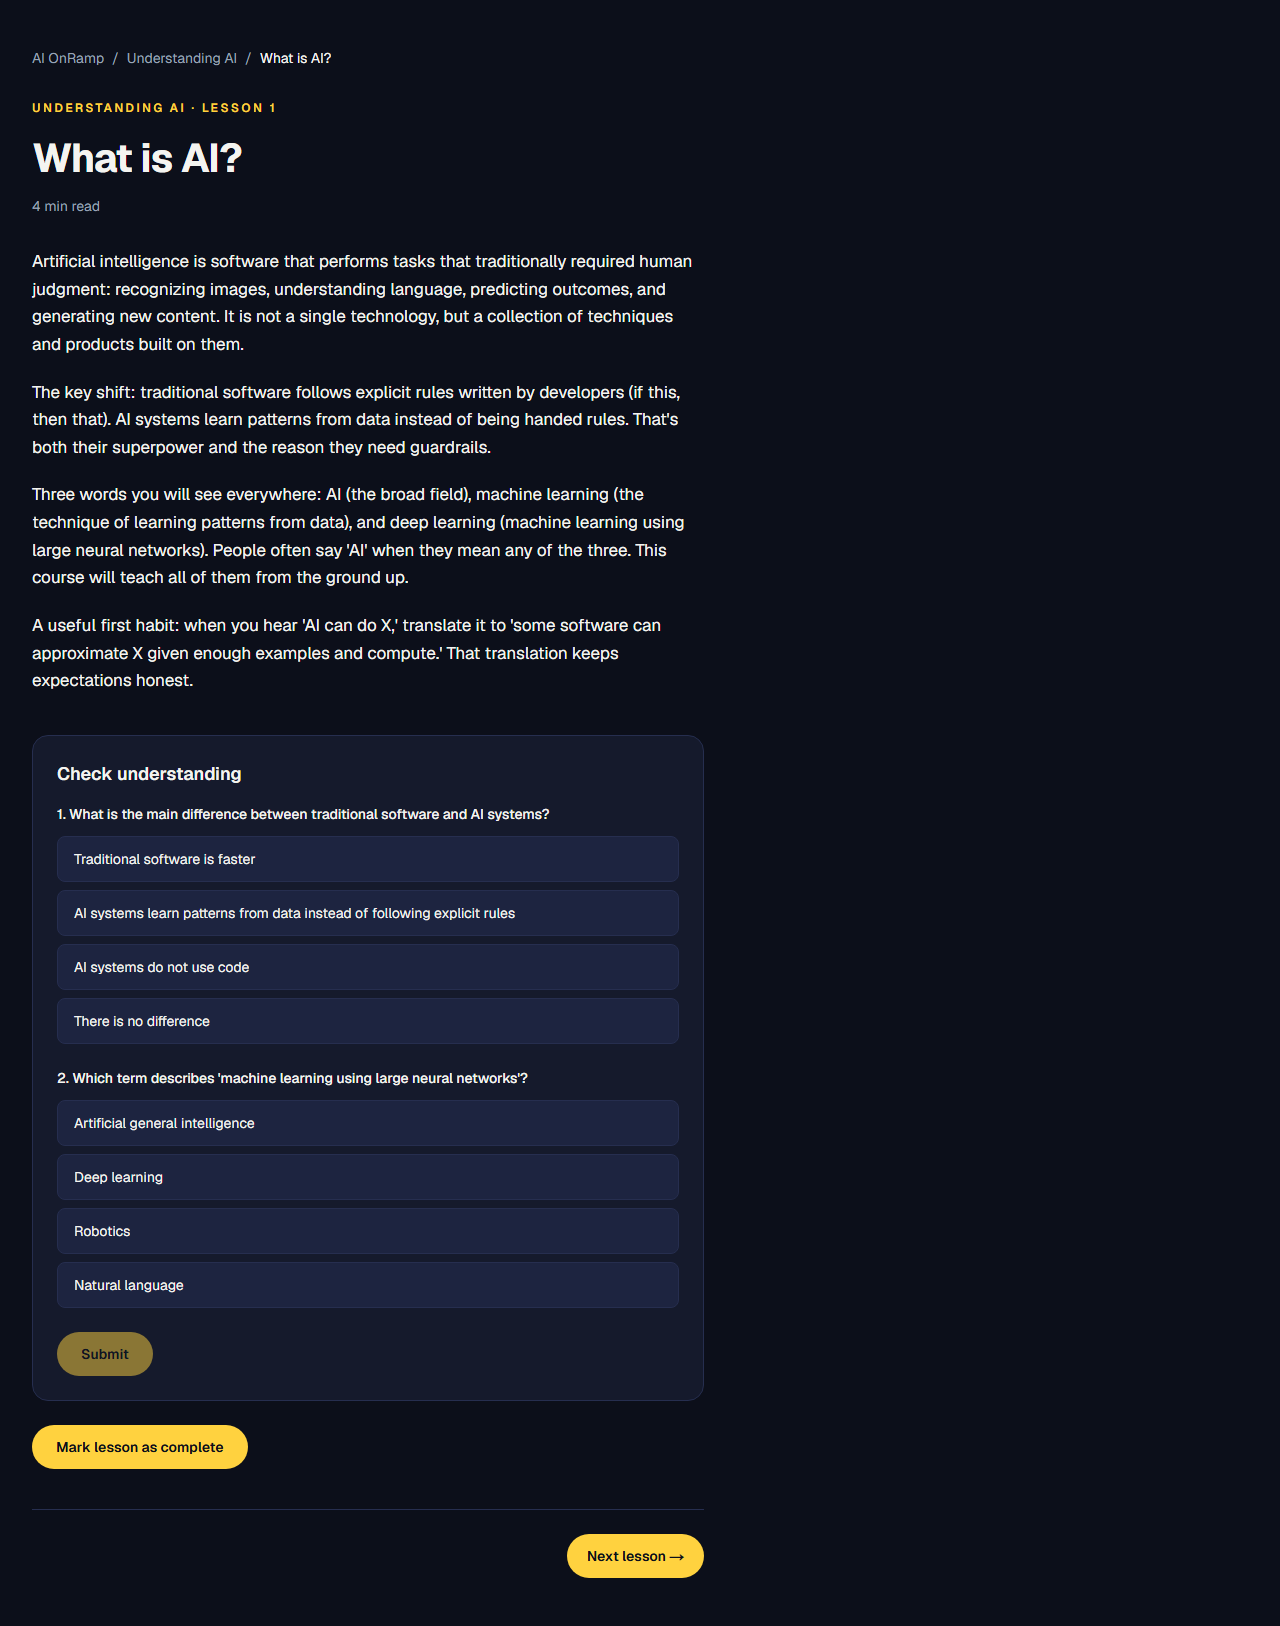
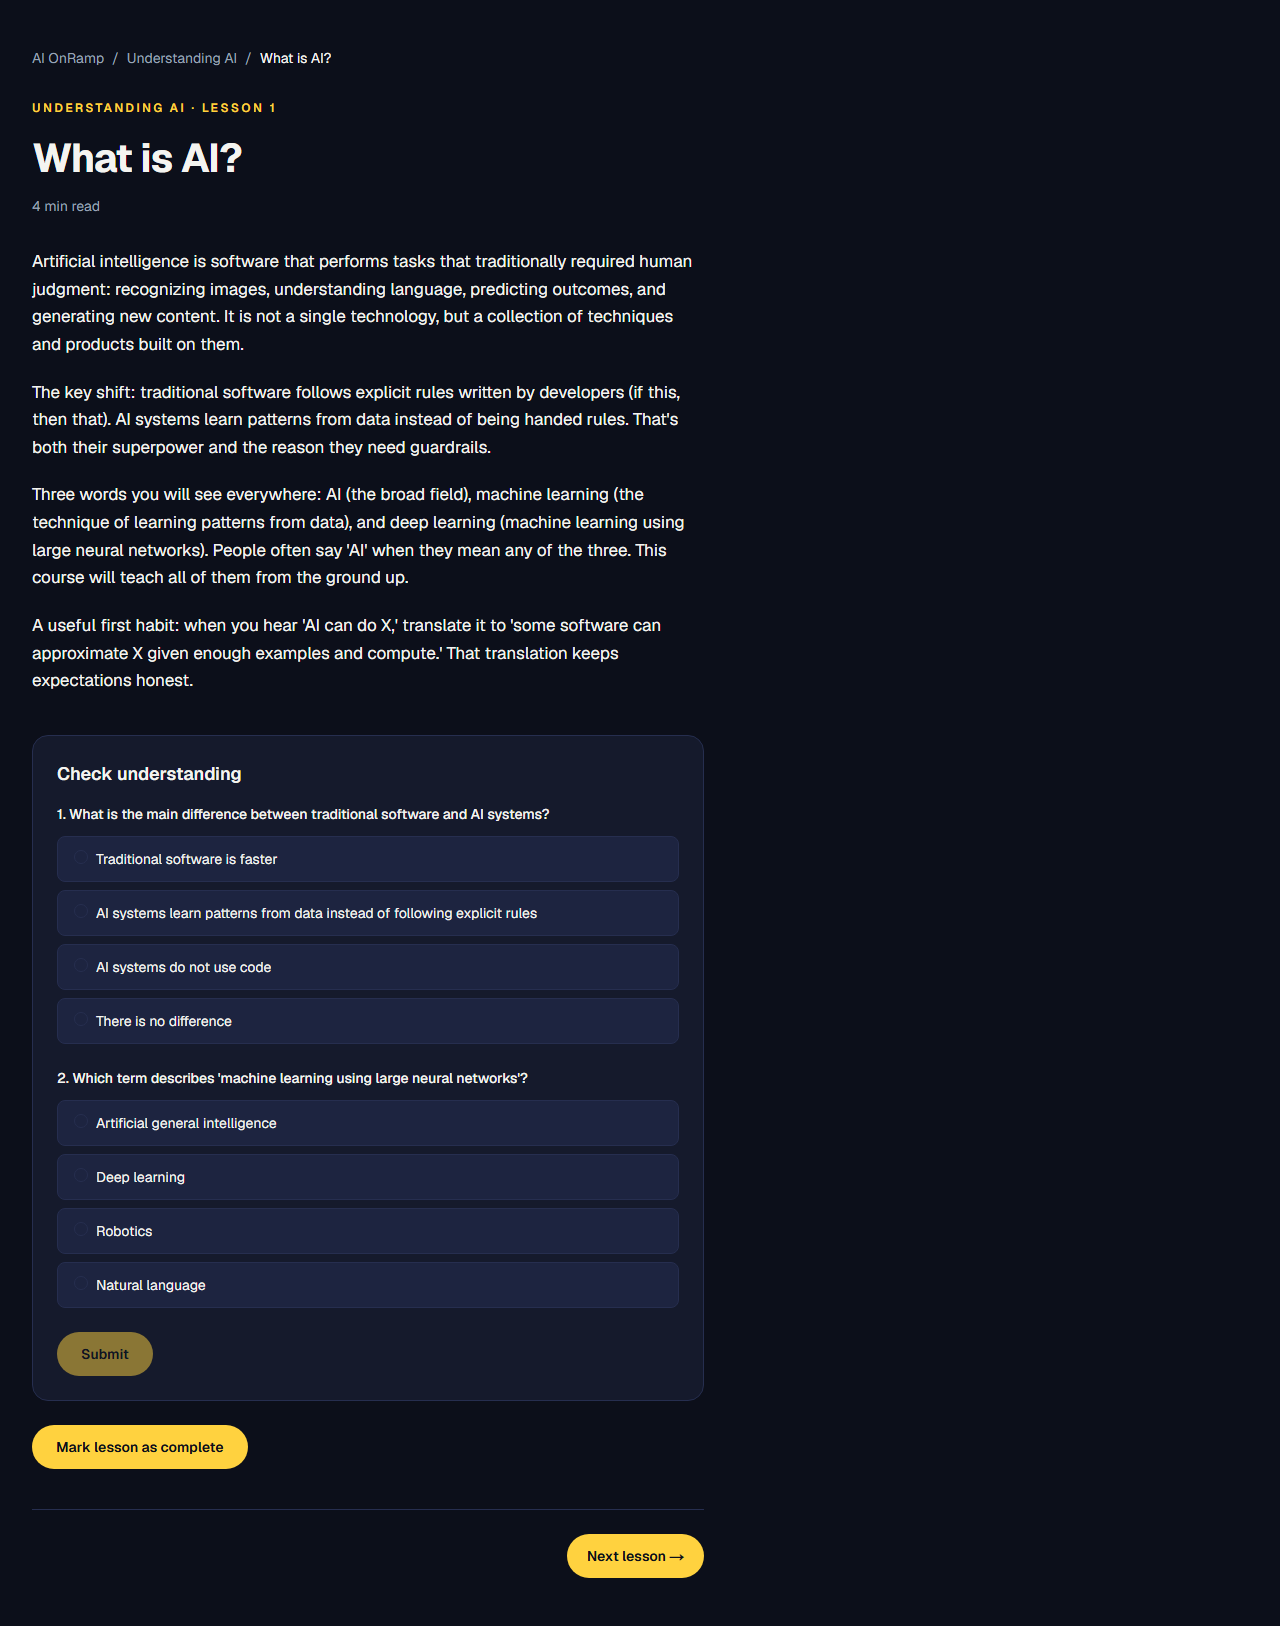
refresh recording + event log (quiz selection state, deduped lesson_started); metrics 12/12

Changed region(s): [[0.0625, 0.5228, 0.4062, 0.6458], [0.0625, 0.6765, 0.2188, 0.7995]]

diff --git a/submissions/CodingWCal-learning-app/docs/learning-flow.md b/submissions/CodingWCal-learning-app/docs/learning-flow.md
@@ -26,5 +26,5 @@ Live export from the self-hosted API (`GET /v1/admin/events`, admin-key authoriz
 
 ```
 GET /v1/apps/78f5ecd3-4f57-4f7b-9671-0477a1b49f9e/metrics
-{"unique_users":10,"qualified_users":10}
+{"unique_users":12,"qualified_users":12}
 ```
